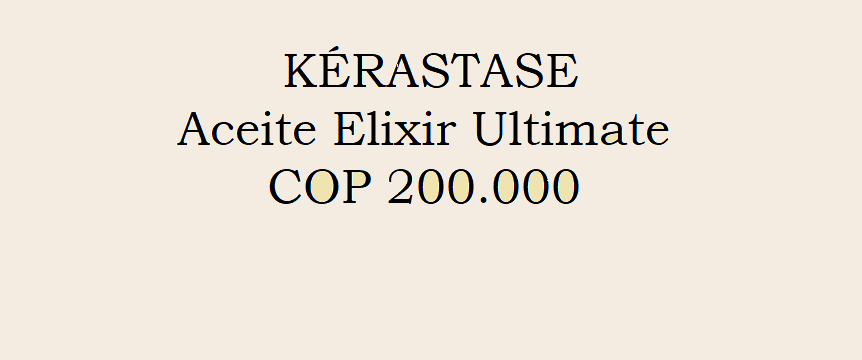
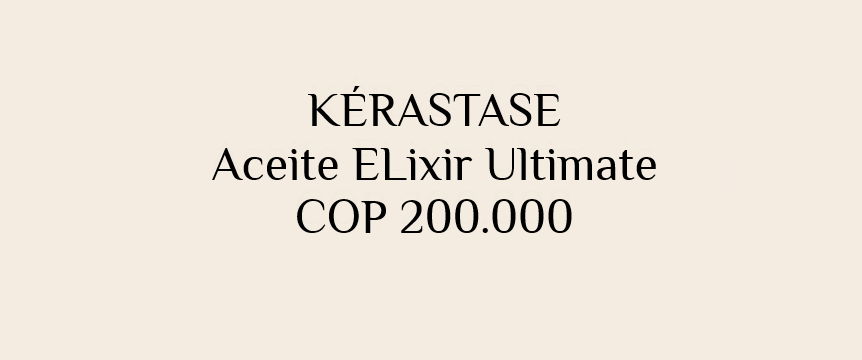
Pequenos cambios

Changed region(s): [[0.2111, 0.1222, 0.7842, 0.6722]]

diff --git a/src/App.css b/src/App.css
@@ -1,4 +1,4 @@
 * {
-    font-family: Verdana, Geneva, Tahoma, sans-serif;
+    font-family: "Philosopher", sans-serif;
     color: #707070;
 }
